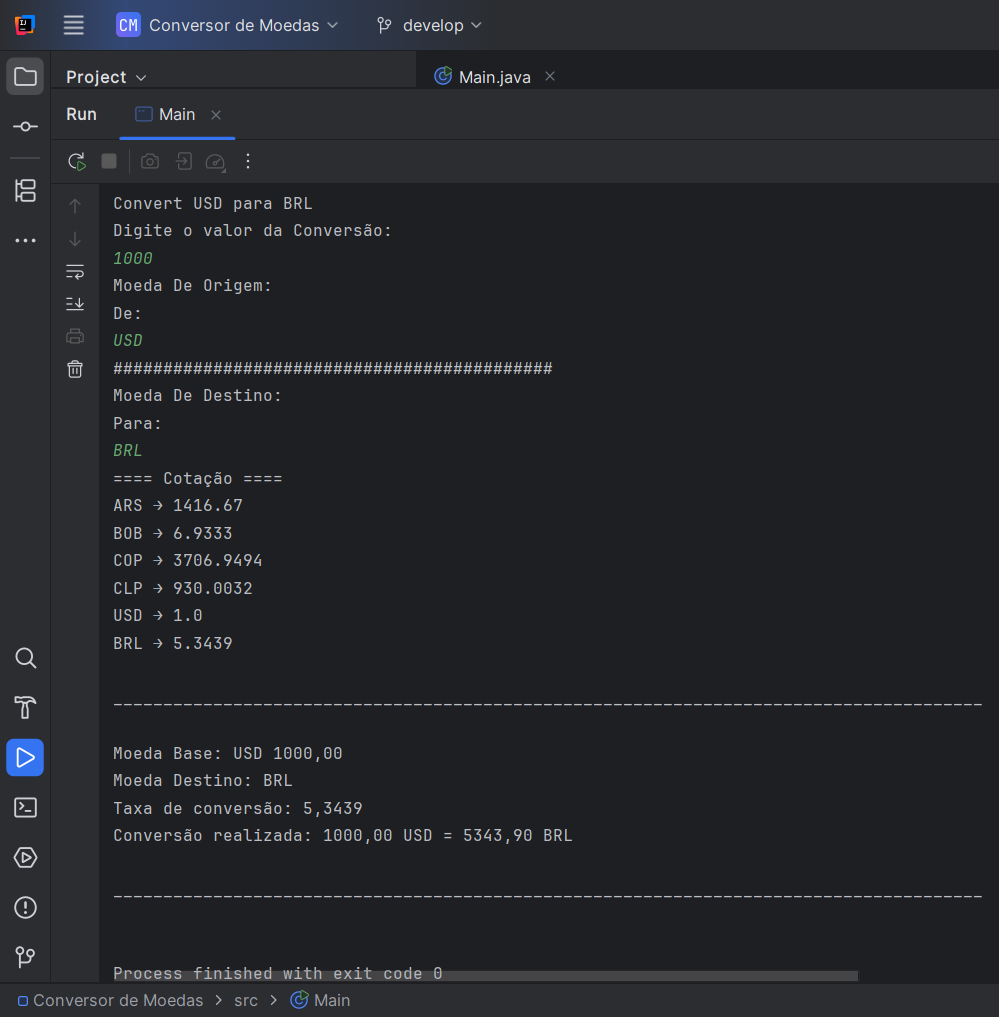
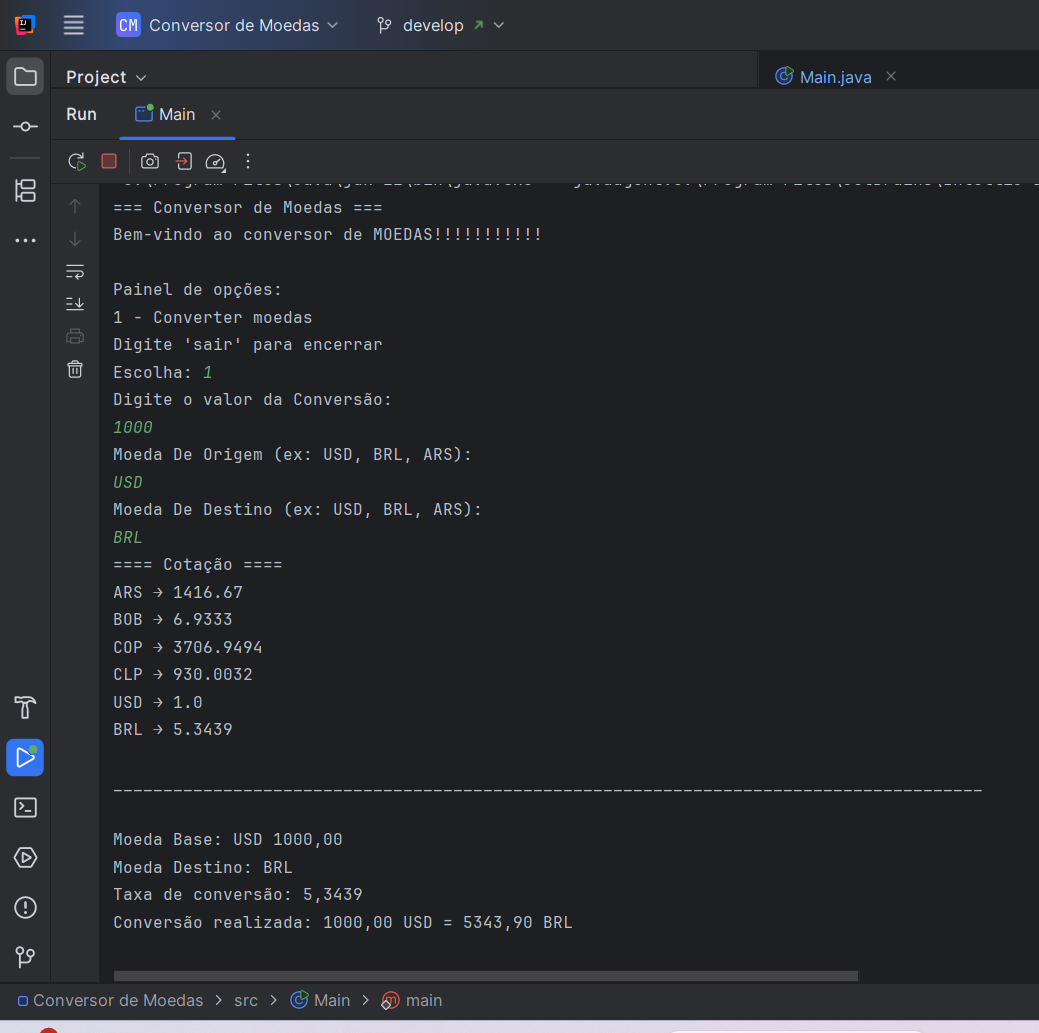
Revisando READAME, Revisando Enviar Gerador de arquivos para enveiar o resultado da conversão em json

diff --git a/src/ResultadoDaConversao.java b/src/ResultadoDaConversao.java
@@ -1,0 +1,4 @@
+package PACKAGE_NAME;
+
+public record ResultadoDaConversao() {
+}
